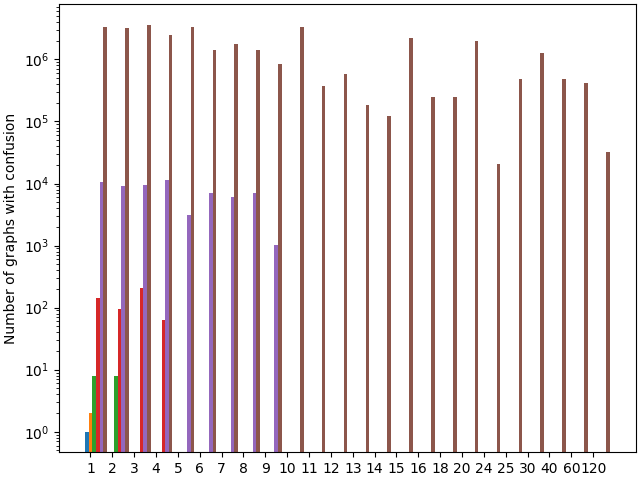
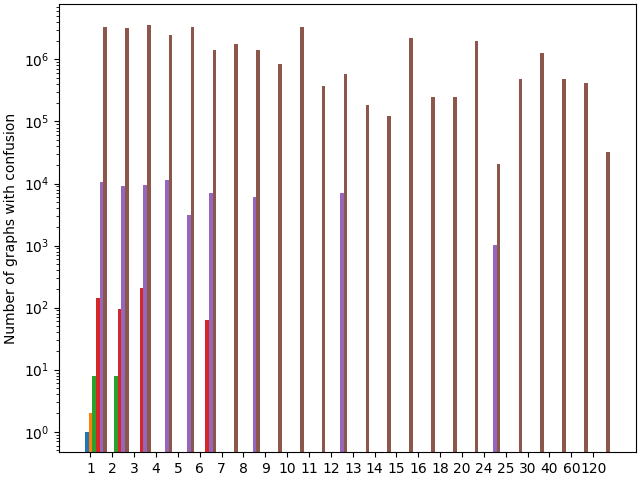
Linkage.

diff --git a/code/turning/draw_all.py b/code/turning/draw_all.py
@@ -6,7 +6,12 @@ import matplotlib.pyplot as plt
 # Don't just pad. You need to do something more elaborate.
 
 def plot_confusions(df, multiplier):
-	values=np.pad(df[2], (0, len(x)-len(df[2])), 'constant', constant_values=0)
+	values=np.zeros(len(labels))
+	for i in range(0, len(labels)):
+		try:
+			values[i]=df.loc[df[1]==labels[i]][2].iloc[0]
+		except:
+			continue
 	offset=width*multiplier
 	rects=ax.bar(x+offset, values, width, log=True)
 

diff --git a/considerations_on_cryonics.md b/considerations_on_cryonics.md
@@ -783,7 +783,7 @@ being that option:
 * If whole-brain emulation is wide-spread, and copying of whole-brain emulations is easy:
 	* Competition among whole-brain emulations is likely fierce, and labor by emulations would be as cheap as slave labour (so there is no particular reason to enslave emulations)
 	* The average emulation is likely very competent and elite, and a much better worker than the average college-educated person ([Hanson 2016 pp. 161-163](https://ageofem.com "The Age of Em")) estimates that most ems are going to be copies of fewer than a thousand or so original humans, each most likely again selected from several thousand individual childhoods to select the most capable educational lineage)
-* If whole-brain emulation is not wide-spread, then the more the more more-obscure whole-brain emulation is, the more unlikely it is that cryonics and whole-brain emulation will "come into contact", since cryonics is also obscure and the number of preserved patients is tiny (~1500)<!--TODO: this number is incorrect, it's much less than that-->
+* If whole-brain emulation is not wide-spread, then the more the more more-obscure whole-brain emulation is, the more unlikely it is that cryonics and whole-brain emulation will "come into contact", since cryonics is also obscure and the number of preserved patients is tiny ([<500](https://docs.google.com/spreadsheets/d/1vBrlNvPkPQbLKxtSUlTF_ZpUS4lwW2W7lENRj9Gdk3I/edit#gid=662993486), with [much more to come](https://lessdead.com/how-many-humans-will-have-their-brain-preserved-forecasts-and-trends))
 	* It seems unlikely that whole-brain emulation will stay restricted to a niche, since it will likely require large amounts of computational power and high-tech scanning facilities which are only possible with large amounts of capital
 	* A factor working against this is that whole-brain emulation and cryonics are discussed within in the same subculture
 * Uploading a [vitrified](https://en.wikipedia.org/wiki/Cryopreservation#Vitrification) brain seems to be at least as difficult as scanning a freshly deceased brain or a living brain, and possibly much more difficult, since one would need to repair structural damage done by outdated cryopreservation methods (why not vitrify a recently deanimated person with the newest cryogenic technology, and then scan & upload them, instead of trying to fix old somewhat broken brains?), so it would probably not be more economically viable
@@ -966,15 +966,16 @@ arrives at 2850 years.
 conservatively estimates a life expectancy of ~1000 years for each
 individual human after LEV.
 
-Taking existential risks into account is a bit harder. It is unclear
-whether most of the probability mass for existential risks should be
-placed before resuscitation of cryonics patients becomes feasible,
-or after it. It is also unclear how high the existential risk for
-humanity is overall. Assuming that the existential risk for humanity
-over the next 10000 years is ~40% (this number is pretty much a
-guess)<!--TODO: link Metaculus Ragnarök series, and see if someone
-like FHI has done some calculations on that-->, and half of that risk
-is placed before resuscitation, then the life expectancy of cryonics is
+Taking existential risks into account is a bit harder. It is
+unclear whether most of the probability mass for existential
+risks should be placed before resuscitation of cryonics patients
+becomes feasible, or after it. It is also unclear how high the
+existential risk for humanity is overall. Assuming that the
+existential risk for humanity over the next 10000 years is ~40%
+(this number is pretty much a guess, see also the [Ragnarök question
+series](https://www.metaculus.com/questions/2568/ragnar%25C3%25B6k-seriesresults-so-far/)),
+and half of that risk is placed before resuscitation, then the life
+expectancy of cryonics is
 `$\frac{8938+2850+1000}{3}*(1-0.20) \approx 3410$`.
 
 That number should be qualified further in an ["Age of

diff --git a/life_advice.md b/life_advice.md
@@ -112,7 +112,7 @@ And, as always, remember that I'm just a person on the internet.
 		threshold, humanity is [probably
 		doomed](https://www.lesswrong.com/posts/HBxe6wdjxK239zajf/what-failure-looks-like)
 		* But you can still spend the remaining time well!
-		* Or even try to prevent it <!--TODO: link No time like present for AI safety research-->
+		* Or even try to [prevent it](https://slatestarcodex.com/2015/05/29/no-time-like-the-present-for-ai-safety-work/)
 	* Post on this [forthcoming some time](./leave.html)
 10. If you are looking for solutions to problems, look for zero-willpower/zero-inspiration solutions first
 	* The best example for this is buying a product that solves your problem
@@ -151,10 +151,11 @@ And, as always, remember that I'm just a person on the internet.
 	* The more similar their constraints to yours, the better
 	* This probably disqualifies this whole text, but whatever
 18. [Structured Procrastination](https://structuredprocrastination.com) might work for you. It does for me.
-19.	Fight tooth and nail for Slack<!--TODO: link-->. FIRE<!--TODO:
-	link-->, fewer addictions (even small ones like mindless internet
-	browsing), no debt, fewer physical objects you own, and less
-	social obligations are all instances of having a lot of slack.
+19.	Fight tooth and nail for [Slack](https://www.lesswrong.com/posts/yLLkWMDbC9ZNKbjDG/slack).
+	[FIRE](https://en.wikipedia.org/wiki/FIRE_movement), fewer
+	addictions (even small ones like mindless internet browsing), no
+	debt, fewer physical objects you own, and less social obligations
+	are all instances of having a lot of slack.
 	*	Example: I have a bad instance of completionism around
 		media. Once I have started a particular piece of media
 		(a podcast, a series, a blog), it feels bad to just not
@@ -178,7 +179,7 @@ And, as always, remember that I'm just a person on the internet.
 			* Meditation is probably a good example for this
 	*	Creating things probably feels longer than the same
 		time spent consuming things
-	* Doing new activies also feels longer than familiar ones <!--TODO: theoryengine post-->
+	* Doing new activies also feels longer than [familiar ones](http://theoryengine.org/life/tips-for-a-longer-life/)
 22.	If you want to get into X, the best way of doing so is probably
 	doing a little bit of X for a month, and then one week of X for
 	6 or more hours a day
@@ -214,7 +215,7 @@ And, as always, remember that I'm just a person on the internet.
 		have ideological hangups about money, seeing it as
 		immoral and not worth thinking about. This seems
 		both untrue and harmful – money is extremely useful,
-		and having money is pretty important. <!--TODO: LW post about money-->
+		and having money [is pretty important](https://www.lesswrong.com/posts/TsjdF2Fpes7S7Syej/taking-money-seriously).
 	*	Know how much you spend, on what, and what your longterm
 		financial plan is.
 28.	For some people, sometimes being able to ground out ones problems
@@ -245,11 +246,12 @@ Existence of Long Tails for Bliss and Suffering")<!--TODO: better links for this
 	not sure when ("The market can stay irrational longer than you
 	can stay solvent—unless it can't anymore").
 	*	If you appreciate natural diamonds for their authenticity,
-		then by all means, go ahead. But don't be disappointed
-		when a years later, your friends can buy bigger diamonds
-		with the same carbon atoms 10x cheaper<!--TODO: link
-		Yudkowsky on "the same atoms"-->, and nobody cares about
-		your authentic diamond.
+		then by all means, go ahead. But don't
+		be disappointed when a years later, your
+		friends can buy bigger diamonds with the [same carbon
+		atoms](https://www.lesswrong.com/posts/RLScTpwc5W2gGGrL9/identity-isn-t-in-specific-atoms)
+		10x cheaper, and nobody cares about your authentic
+		diamond.
 
 See Also
 ---------

diff --git a/preagent.md b/preagent.md
@@ -1,0 +1,57 @@
+[home](./index.md)
+-------------------
+
+*author: niplav & Alexander Gietelink Oldenziel, created: 2023-05-24, modified: 2023-07-01, language: english, status: draft, importance: 9, confidence: likely*
+
+> __Not sure yet.__
+
+Pre-Agent Theory
+==================
+
+In 1947, John von Neumann and Oskar Morgenstern published their book
+Theory of Games and Economic Behavior. This made a lot of people very
+angry and has been widely regarded as a bad move.<!--TODO: figure out
+exact Douglas Adams quote?-->
+
+The theorem is deceptively simple. Given a set of options `$\Omega$`
+(not further elaborated on), and a preference relation on lotteries
+of those options satisfying four axioms (completeness, transitivity,
+continuity, indepedence), one can construct a utility function `$u: \Omega \rightarrow [0;1]$`
+that assigns real values to all the options. The value of a lottery
+`$\mathcal{L}$`, then, is simply the *expected* value of the elements
+in the lottery.
+
+However.
+
+There are some points of, ah, contention around the von
+Neumman-Morgenstern setup. One of those is around the set `$\Omega$`:
+the common examples include sets of fruits, or other cute edible &
+easily handleable objects. (Is `$\Omega$` assumed to be finite?)
+
+However, when pressed, proponents of vNM utility theory start talking
+about how `$\Omega$` *really* is a set of universe-histories
+or multiverse-histories. This introduces some problems: For
+example, one can't guarantee that the resulting utility function is
+[computable](https://www.lesswrong.com/s/PKKsrXtuptWzaKCjr/p/A8iGaZ3uHNNGgJeaD),
+and every behavior can be interpreted as being [compatible with expected
+utility maximization](https://www.lesswrong.com/posts/NxF5G6CJiof6cemTw).
+
+But even leaving those aside, there is ample evidence that humans
+don't fulfill the axioms stated above, at least in the case where
+we partition the world into objects such as distinct amounts of
+money. For example, humans violate the independence axiom in the
+[Allais Paradox](https://en.wikipedia.org/wiki/Allais_Paradox),
+and instead might have preferences with a more [involved
+structure](./doc/psychology/on_the_structural_consistency_of_preferences_el_gamal_2013.pdf "On the Structural Consistency of Preferences").
+Additionally, there has been some noises that [markets
+may](https://www.lesswrong.com/posts/3xF66BNSC5caZuKyC/why-subagents)
+(or [may
+not](https://www.lesswrong.com/posts/bzmLC3J8PsknwRZbr/why-not-subagents)?)
+violate the completeness axiom.
+
+All of this points into a similar direction. Agents don't spring into
+the world [fully formed](https://en.wikipedia.org/wiki/Athena#Birth),
+instead they grow and develop. They might start out as collections of
+dumber "agents", undergo pressure from exploitation, refactor their
+models of the world and sometimes their preference, perform internal
+bargaining and more.

diff --git a/turning.md b/turning.md
@@ -1,7 +1,7 @@
 [home](./index.md)
 -------------------
 
-*author: niplav, created: 2022-03-04, modified: 2023-01-28, language: english, status: notes, importance: 8, confidence: likely*
+*author: niplav, created: 2022-03-04, modified: 2023-07-01, language: english, status: notes, importance: 8, confidence: likely*
 
 > __Representing inconsistent preferences with specific mathematical
 structures can clarify thoughts about how to make those preferences
@@ -677,9 +677,14 @@ We can now try to plot this:
 	import matplotlib.pyplot as plt
 
 	def plot_confusions(df, multiplier):
-	        values=np.pad(df[2], (0, len(x)-len(df[2])), 'constant', constant_values=0)
-	        offset=width*multiplier
-	        rects=ax.bar(x+offset, values, width, log=True)
+	values=np.zeros(len(labels))
+		for i in range(0, len(labels)):
+			try:
+				values[i]=df.loc[df[1]==labels[i]][2].iloc[0]
+			except:
+				continue
+		offset=width*multiplier
+		rects=ax.bar(x+offset, values, width, log=True)
 
 	confusions=pd.read_csv('../../data/compressed.csv', header=None)
 	labels=np.sort(confusions[1].unique())
@@ -690,7 +695,7 @@ We can now try to plot this:
 	fig, ax=plt.subplots(constrained_layout=True)
 
 	for c in list(confusions.groupby(0)):
-	        plot_confusions(c[1], c[0])
+		plot_confusions(c[1], c[0])
 
 	ax.set_ylabel('Number of graphs with confusion')
 	ax.set_xticks(x+width, labels)
@@ -798,10 +803,10 @@ for the purposes of simplicity (I do not think that this changes much).
 I believe that using graphs/set theoretic relations is sufficient to be
 able to represent all von Neumann-Morgenstern inconsistent preferences.
 
-However, in the formalism of choice sets/choice functions (Gaertner
-2009<!--TODO: link--> p. 7-9) I believe that there are some cases which
-can't be represented by this formalism (because they violate expansion
-consistency:
+However, in the formalism of choice sets/choice functions ([Gaertner
+2009](https://www.goodreads.com/book/show/6390481-a-primer-in-social-choice-theory)
+p. 7-9) I believe that there are some cases which can't be represented
+by this formalism (because they violate expansion consistency:
 
 With option set `$O_1=\{a,b\}$` have `$C(O_1)=\{a\}$`, but with option
 set `$O_2=\{a,b,c\}$` we have the choice `$C(O_2)=b$`.

diff --git a/leave.md b/leave.md
@@ -106,8 +106,7 @@ Not only do we bring up an impressive barrage of [cognitive
 biases](https://en.wikipedia.org/wiki/List_of_cognitive_biases),
 but it seems likely that our brains are
 designed to [deceive and hide information from
-themselves](https://en.wikipedia.org/wiki/The_Elephant_in_the_Brain)<!--TODO:
-perhaps replace with a GoodReads link-->.
+themselves](https://www.goodreads.com/book/show/28820444-the-elephant-in-the-brain).
 And knowing about cognitive biases and flawed thinking usually helps
 little with actually mitigating them, sometimes even [amplifying the
 problem](https://www.lesswrong.com/rationality/knowing-about-biases-can-hurt-people).
@@ -205,8 +204,9 @@ for example the [right to be
 forgotten](https://en.wikipedia.org/wiki/Right_to_be_forgotten)
 or the [General Data Protection
 Regulation](https://en.wikipedia.org/wiki/General_Data_Protection_Regulation),
-[humane technology]()<!--TODO: link, but there isn't a wikipedia article
-about this yet--> isn't very much on the radar of legislators yet—a
+[humane
+technology](https://en.wikipedia.org/wiki/Center_for_Humane_Technology)
+isn't very much on the radar of legislators yet—a
 [summary](https://en.wikipedia.org/wiki/Digital_media_usage_and_mental_health#Industry_and_government)
 on Wikipedia lists only some minor actions
 by east-Asian countries (again [of their western
@@ -310,7 +310,7 @@ As an example, here's the things I have downloaded for offline reading:
 * A large collection (several thousands) of books and papers I want to read
 * [Websites I like](./sites.html)
 
-To download a website, I usually used the command wget<!--TODO: link-->:
+To download a website, I usually used the command [wget](https://en.wikipedia.org/wiki/Wget):
 
 	wget --page-requisites -e robots=off -p -k -c -r --mirror -p --html-extension -R '*replytocom*,*like_comment*,*p=*,*test-preview=*,*test-expand=*,*url=*,*share=*,*commentId=*,*sortedBy=*,*after=*,*before=*,*limit=*,*filter=*,*showPostCount=*,*useTagName=*,*///*,*social-media/*,*updated-max=*,*max-results=*,*reverse-paginate=*,*showComment=*,*filters_and=*,*following%5C*,*https:%5C*,*fsnapshot*' -P . www.example.com
 

diff --git a/todo.md b/todo.md
@@ -1,7 +1,7 @@
 [home](./index.md)
 ------------------
 
-*author: niplav, created: 2019-09-09, modified: 2023-06-29, language: english, status: notes, importance: 2, confidence: log*
+*author: niplav, created: 2019-09-09, modified: 2023-07-01, language: english, status: notes, importance: 2, confidence: log*
 
 > __Notes and ideas for texts & programs & startups & projects & libraries
 & factories & technologies that will be started decades in the future,
@@ -1755,6 +1755,7 @@ Programming
 * Dovetail the shortest brainfuck quine, in practice
 * EA idea repository
 * Open source onlyfans
+* `dmenu` × `fzf`
 
 ### Klong Libraries
 
@@ -2023,10 +2024,6 @@ Wikipedia Articles
 	* Add section of Self-Assured Destruction
 * List of Internet forums
 	* Add LessWrong
-	* Redirect "List of Internet fora" to that page
-* rio (windowing system)
-	* Redirect rio (software) to that page
-	* Redirect 8½ (software)/(windowing system) to the page
 
 Lesswrong wiki
 ---------------
@@ -2121,6 +2118,18 @@ Memes
 ------
 
 * Deep Fried & Bass-Boosted National Anthems
+* Effective Altriust Alignment Chart
+	* Intention Purist/Intention Neutral/Intention Rebel
+	* Effect Purist/Effect Neutral/Effect Rebel
+	* IP&EP: Jeff Kaufman
+	* IP&EN: Eliezer Yudkowsky
+	* IP&ER: Sam Bankman-Fried
+	* IN&EP: Katalín Kariko
+	* IN&EN: Basically everyone else
+	* IN&ER: Fritz Haber
+	* IR&EP: The Black Plague
+	* IR&EN: Sam Altman
+	* IR&ER: Mr. Beast
 
 In-World Projects
 ------------------

diff --git a/contributions.md b/contributions.md
@@ -108,7 +108,7 @@ look". The comma before "smallcaps" was misplaced.
 * "when I speculated on the identity of Mike Darwin‘s patron (above, ’Notes’)" -> it's now below
 * List of heuristics started at 2, not at 1 (the one after "When we begin deciding what probability to give the prediction")
 * "industry over the period from 2010 to 2010" -> maybe one of those numbers should be different
-* "he had ~410 billion in 2000 but fell to 300 million" -> shouldn't be "~410 billion", Wikipedia says <!--TODO: link--> "In 2000, Forbes estimated his net worth at $1.6 billion"
+* "he had ~410 billion in 2000 but fell to 300 million" -> shouldn't be "~410 billion", Wikipedia [says](https://en.wikipedia.org/wiki/Jay_S._Walker) "In 2000, Forbes estimated his net worth at $1.6 billion"
 * "Page & Brin; while I generally get a utopian Singulitarian vibe off them and their projects and they seem to like publicizing their works" -> the "while" wasn't resolved
 
 #### “The Existential Risk of Math Errors”

diff --git a/daygame_cost_benefit.md b/daygame_cost_benefit.md
@@ -601,10 +601,13 @@ this number upwards.
 ##### Opportunity Cost
 
 [Free Northerner
-2012](https://freenortherner.wordpress.com/2012/06/12/economic-analysis-of-casual-sex-prostitution-vs-game/ "Economic Analysis of Casual Sex – Prostitution vs Game")
-assumes 3 dates, it is common wisdom <!--TODO: any sort of
-link-->originating from Mystery that 7 hours is a normal time spent on
-dates until having sex.
+2012](https://freenortherner.wordpress.com/2012/06/12/economic-analysis-of-casual-sex-prostitution-vs-game/
+"Economic Analysis of Casual Sex –
+Prostitution vs Game") assumes 3 dates, it is [common
+wisdom](https://theredarchive.com/blog/Days-of-Game/part-i-mysterys-seven-hour-rule-and-lmr.22180)
+originating from
+[Mystery](https://en.wikipedia.org/wiki/Erik_von_Markovik) that 7 hours
+is a normal time spent on dates until having sex.
 
 Data from [Roy Walker](https://roywalkerdaygame.wordpress.com/) includes
 numbers of dates starting from 2018:

diff --git a/cryonics_outside_us.md b/cryonics_outside_us.md
@@ -29,7 +29,7 @@ for cryonics is a good idea (see [Urban
 and perhaps my own [cost-benefit
 analysis](./considerations_on_cryonics.html "Considerations on Cryonics")).
 For instructions on how to sign up for cryonics in the US, see
-[here]()<!--TODO: link cryonics signup guide-->.
+[here](https://www.lesswrong.com/s/weBHYgBXg9thEQNEe).
 
 Structure
 ----------
@@ -65,7 +65,7 @@ countries contribute the precautions they have taken.
 __If you don't have a US citizenship and have signed up with cryonics, or
 have considered and research it, but rejected it for logistical reasons,
 I would [like to talk to you](./about.html#Contact) about why and how
-(email address is rot-13ed <!--TODO: link-->).__
+(email address is [rot13ed](https://en.wikipedia.org/wiki/ROT13)).__
 
 European Union
 ---------------

diff --git a/language.md b/language.md
@@ -1,7 +1,7 @@
 [home](./index.md)
 ------------------
 
-*author: niplav, created: 2021-10-13, modified: 2023-05-08, language: multiple, status: in progress, importance: 1, confidence: other*
+*author: niplav, created: 2021-10-13, modified: 2023-07-01, language: multiple, status: in progress, importance: 1, confidence: other*
 
 > __This page is a grab-bag of puns, good bandnames, types of guy,
 idioms, linguistic prescriptivism, umeshisms, nominative determinisms,
@@ -359,6 +359,7 @@ often use instead.
 * "Equilibria" instead of "equilibrium"
 * "Maxima" instead of "maximum"
 * "Criteria" instead of "criterion"
+* "Stimulus" instead of "stimuli"<!--TODO: the Bailey episode on catgirls-->
 
 Equivalences
 -------------

diff --git a/masturbation_and_attractiveness.md b/masturbation_and_attractiveness.md
@@ -320,9 +320,10 @@ masturbation (which is also the period [recommended by the NoFap
 community](https://nofap.com/rebooting/): "NoFap’s gold standard of
 success is our 90-day reboot.").
 
-From \_ to \_, I went on the streets of a major european city and
-approached 100 people I read as men and 100 people I read as women,
-usually via a Yad stop<!--TODO: link or source-->.
+From \_ to \_, I went on the streets of a major
+european city and approached 100 people I read as
+men and 100 people I read as women, usually via a [Yad
+stop](https://thomascrownpua.com/2023/04/21/qa-what-do-you-think-of-the-yad-stop/)
 The people who were approached were chosen by their attractiveness to
 the author.
 
